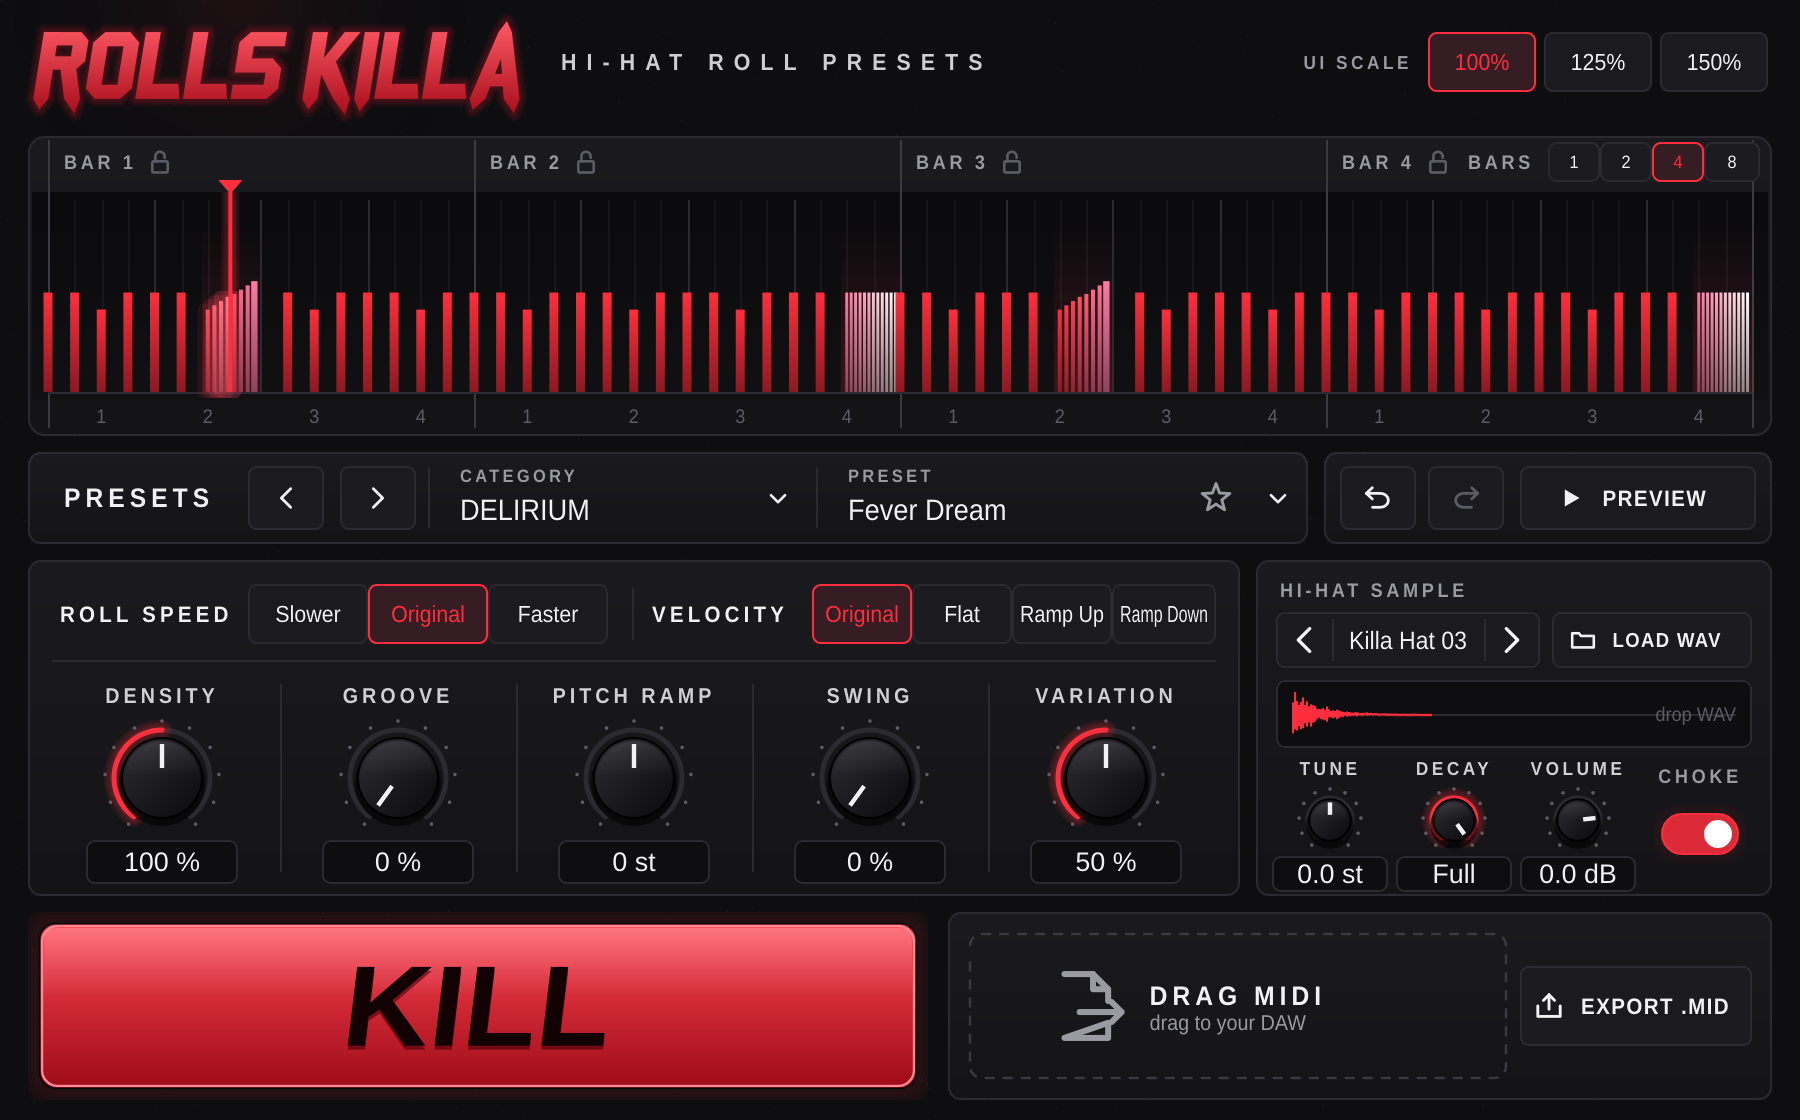
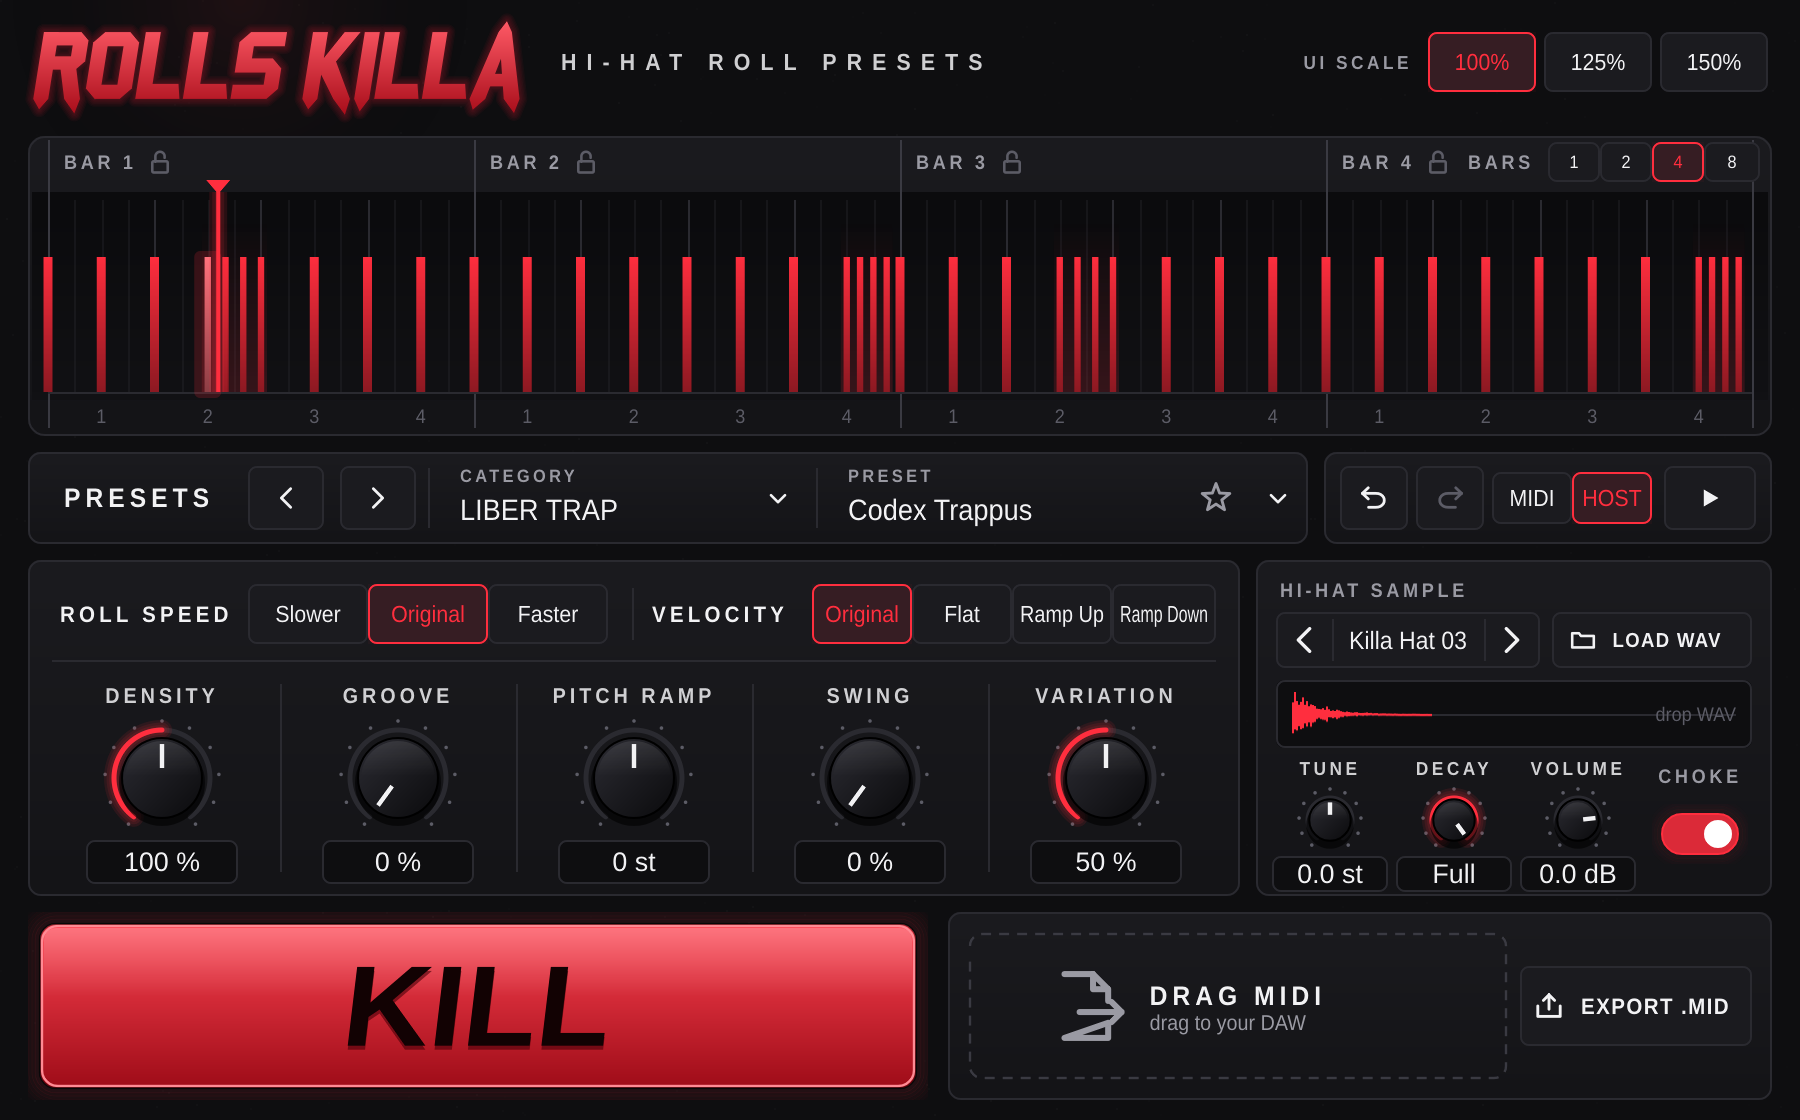
Play mode MIDI/HOST: pattern plays only while a note is held (default)
In FL Studio a muted channel kept playing because the plugin ran from the host
transport alone. New Play Mode parameter:
- MIDI (default): the pattern plays only while a note is held on the channel,
  still locked to the host position (sample-accurate gate, no allocation)
- HOST: previous behaviour, plays whenever the host plays
UI switch next to undo/redo; the visualizer explains the silence when waiting
for a note. In MIDI mode incoming notes are the gate, not hat hits.
Renderer check covers both cases.

Claude-Session: https://claude.ai/code/session_01JN2pH6w3NKbAAYqFduXsoX

diff --git a/Source/PluginProcessor.cpp b/Source/PluginProcessor.cpp
@@ -18,6 +18,7 @@ RollsKillaProcessor::RollsKillaProcessor()
     raw.decay = apvts.getRawParameterValue (params::decay);
     raw.choke = apvts.getRawParameterValue (params::choke);
     raw.volume = apvts.getRawParameterValue (params::volume);
+    raw.playMode = apvts.getRawParameterValue (params::playMode);
 
     rebuildPattern (true);
     history.reset (apvts.copyState());
@@ -376,17 +377,93 @@ void RollsKillaProcessor::processBlock (juce::AudioBuffer<float>& buffer, juce::
         previewPpq += numSamples * transport.bpm / 60.0 / currentSampleRate;
     }
 
-    const auto numEvents = player.process (pattern, transport, numSamples, events);
+    // ---- MIDI gate: in MIDI mode the pattern only plays while a note is held on the channel
+    //      (FL: a long note in the piano roll; a muted channel sends no notes -> silence)
+    const auto midiGate = raw.playMode->load() < 0.5f;
+    const auto previewing = ! hostIsPlaying && transport.playing;
+
+    if (! hostIsPlaying && numHeldNotes > 0)
+    {
+        heldNotes.fill (false);
+        numHeldNotes = 0;
+    }
+
+    auto updateGate = [this] (const juce::MidiMessage& m)
+    {
+        if (m.isNoteOn())
+        {
+            if (! heldNotes[(size_t) m.getNoteNumber()]) { heldNotes[(size_t) m.getNoteNumber()] = true; ++numHeldNotes; }
+        }
+        else if (m.isNoteOff())
+        {
+            if (heldNotes[(size_t) m.getNoteNumber()]) { heldNotes[(size_t) m.getNoteNumber()] = false; --numHeldNotes; }
+        }
+        else if (m.isAllNotesOff() || m.isAllSoundOff())
+        {
+            heldNotes.fill (false);
+            numHeldNotes = 0;
+        }
+    };
+
+    int numEvents = 0;
+
+    if (midiGate && hostIsPlaying)
+    {
+        // run the player in segments split at gate changes (sample accurate, no allocation)
+        const auto beatsPerSample = transport.bpm / 60.0 / currentSampleRate;
+        int segStart = 0;
+
+        auto runSegment = [&] (int segEnd)
+        {
+            segEnd = juce::jlimit (0, numSamples, segEnd);
+            if (segEnd <= segStart)
+                return;
+
+            auto t = transport;
+            t.ppq = transport.ppq + segStart * beatsPerSample;
+            t.playing = numHeldNotes > 0;
+            const auto n = player.process (pattern, t, segEnd - segStart, segmentEvents);
+
+            for (int i = 0; i < n && numEvents < (int) events.size(); ++i)
+            {
+                auto e = segmentEvents[(size_t) i];
+                e.sampleOffset += segStart;
+                events[(size_t) numEvents++] = e;
+            }
+            segStart = segEnd;
+        };
+
+        for (const auto meta : midi)
+        {
+            const auto m = meta.getMessage();
+            if (m.isNoteOnOrOff() || m.isAllNotesOff() || m.isAllSoundOff())
+            {
+                runSegment (meta.samplePosition);
+                updateGate (m);
+            }
+        }
+        runSegment (numSamples);
+    }
+    else
+    {
+        for (const auto meta : midi)
+            updateGate (meta.getMessage());
+        numEvents = player.process (pattern, transport, numSamples, events);
+    }
+
+    waitingForMidi.store (midiGate && hostIsPlaying && numHeldNotes == 0, std::memory_order_relaxed);
     patternSlot.release();
 
-    // ---- live input: incoming note-ons play the sampler too (copied, no allocation)
+    // ---- live input (Host mode only): incoming note-ons play the sampler directly.
+    //      In MIDI mode the notes are the gate, not sounds.
     int numInput = 0;
-    for (const auto meta : midi)
-    {
-        const auto m = meta.getMessage();
-        if (m.isNoteOn() && numInput < (int) inputNotes.size())
-            inputNotes[(size_t) numInput++] = { meta.samplePosition, m.getNoteNumber(), (int) m.getVelocity() };
-    }
+    if (! midiGate || previewing)
+        for (const auto meta : midi)
+        {
+            const auto m = meta.getMessage();
+            if (m.isNoteOn() && numInput < (int) inputNotes.size())
+                inputNotes[(size_t) numInput++] = { meta.samplePosition, m.getNoteNumber(), (int) m.getVelocity() };
+        }
 
     midi.clear();   // output = generated pattern only (keeps the host's preallocated storage)
 

diff --git a/tools/render/RenderMain.cpp b/tools/render/RenderMain.cpp
@@ -62,6 +62,10 @@ int main (int argc, char* argv[])
 
     auto& lib = proc.getLibrary();
 
+    // renders and checks run the pattern from the transport (no notes on the channel)
+    if (auto* pm = proc.getState().getParameter (rk::params::playMode))
+        pm->setValueNotifyingHost (pm->convertTo0to1 (1.0f));
+
     if (args.contains ("--demo"))
     {
         // One listening file: calmest (1) and craziest (8) preset of every category, one loop each.
@@ -315,6 +319,42 @@ int main (int argc, char* argv[])
             expectTrue (samePattern (original, p3.getModel().getPattern()), "undo restores the pattern before KILL");
             p3.redo();
             expectTrue (samePattern (killed, p3.getModel().getPattern()), "redo brings the KILL back");
+        }
+
+        // ---- MIDI play mode: silent without a note, plays while a note is held --
+        {
+            std::unique_ptr<juce::AudioProcessor> gateBase (createPluginFilter());
+            auto& gp = dynamic_cast<RollsKillaProcessor&> (*gateBase);
+            FakePlayHead gph;
+            gph.bpm = 140.0;
+            gp.setPlayHead (&gph);
+            gp.setPlayConfigDetails (0, 2, sr, block);
+            gp.prepareToPlay (sr, block);
+            juce::AudioBuffer<float> buf (2, block);
+
+            auto runBlocks = [&] (int blocks, bool holdNote, int& ons, float& peak)
+            {
+                for (int b = 0; b < blocks; ++b)
+                {
+                    juce::MidiBuffer midi;
+                    if (holdNote && b == 0)
+                        midi.addEvent (juce::MidiMessage::noteOn (1, 60, (juce::uint8) 100), 0);
+                    gp.processBlock (buf, midi);
+                    gph.ppq += block * gph.bpm / 60.0 / sr;
+                    for (const auto m : midi)
+                        ons += m.getMessage().isNoteOn() ? 1 : 0;
+                    peak = std::max (peak, buf.getMagnitude (0, block));
+                }
+            };
+
+            int onsSilent = 0, onsHeld = 0;
+            float peakSilent = 0.0f, peakHeld = 0.0f;
+            runBlocks (200, false, onsSilent, peakSilent);
+            runBlocks (200, true, onsHeld, peakHeld);
+            expectTrue (onsSilent == 0 && peakSilent < 1.0e-6f && gp.isWaitingForMidi() == false,
+                        "MIDI mode: host playing, no note -> silent");
+            expectTrue (onsHeld > 0 && peakHeld > 0.05f, "MIDI mode: note held -> pattern plays");
+            gp.setPlayHead (nullptr);
         }
 
         // ---- performance ------------------------------------------------------

diff --git a/Source/PluginEditor.cpp b/Source/PluginEditor.cpp
@@ -78,6 +78,7 @@ RollsKillaEditor::RollsKillaEditor (RollsKillaProcessor& p)
       proc (p),
       visualizer (p),
       presetBar (p),
+      playMode (p.getState(), params::playMode, { "MIDI", "HOST" }),
       rollSpeed (p.getState(), params::rollSpeed, params::rollSpeedChoices),
       velMode (p.getState(), params::velMode, params::velModeChoices),
       density (p.getState(), params::density, "DENSITY"),
@@ -113,8 +114,10 @@ RollsKillaEditor::RollsKillaEditor (RollsKillaProcessor& p)
     redoButton.setTooltip ("Redo (Ctrl+Shift+Z)");
     undoButton.onClick = [this] { proc.undo(); updateStatus(); };
     redoButton.onClick = [this] { proc.redo(); updateStatus(); };
-    previewButton.label = "PREVIEW";
-    previewButton.setTooltip ("Play the pattern at the preset's tempo while the host is stopped");
+    previewButton.setTooltip ("Preview: play the pattern at the preset's tempo while the host is stopped");
+    content.addAndMakeVisible (playMode);
+    playMode.setTooltip ("MIDI: plays only while a note is held on this channel (FL: one long note in the piano roll; "
+                         "a muted channel stays silent). HOST: plays whenever the host plays.");
     previewButton.onClick = [this] { proc.setPreviewEnabled (! proc.isPreviewEnabled()); updateStatus(); };
 
     for (auto* c : std::initializer_list<juce::Component*> { &rollSpeed, &velMode, &density, &groove, &pitchRamp, &swing, &variation,
@@ -187,10 +190,12 @@ void RollsKillaEditor::layout()
     presetBar.setBounds (kPresetBar);
 
     auto t = kTransport.reduced (8, 7);
-    undoButton.setBounds (t.removeFromLeft (38));
+    undoButton.setBounds (t.removeFromLeft (34));
+    t.removeFromLeft (4);
+    redoButton.setBounds (t.removeFromLeft (34));
+    t.removeFromLeft (4);
+    playMode.setBounds (t.removeFromLeft (80).reduced (0, 3));
     t.removeFromLeft (6);
-    redoButton.setBounds (t.removeFromLeft (38));
-    t.removeFromLeft (8);
     previewButton.setBounds (t);
 
     const auto c = kControls;
@@ -228,7 +233,6 @@ void RollsKillaEditor::updateStatus()
     const auto previewing = proc.isPreviewEnabled() && ! hostPlaying;
     previewButton.setToggleState (previewing, juce::dontSendNotification);
     previewButton.setIcon (previewing ? Icon::stop : Icon::play);
-    previewButton.label = hostPlaying ? "HOST SYNC" : previewing ? "STOP" : "PREVIEW";
     previewButton.setEnabled (! hostPlaying);
     previewButton.repaint();
 

diff --git a/Source/ui/RollVisualizer.cpp b/Source/ui/RollVisualizer.cpp
@@ -62,8 +62,11 @@ void RollVisualizer::timerCallback()
     const auto version = processor.getPatternVersion();
     const auto playhead = processor.getPlayheadBeat();
 
-    if (version != shownVersion || std::abs (playhead - lastPlayhead) > 1.0e-9)
+    const auto waiting = processor.isWaitingForMidi();
+
+    if (version != shownVersion || std::abs (playhead - lastPlayhead) > 1.0e-9 || waiting != lastWaiting)
     {
+        lastWaiting = waiting;
         shownVersion = version;
         lastPlayhead = playhead;
         repaint();
@@ -225,6 +228,22 @@ void RollVisualizer::paint (juce::Graphics& g)
         juce::Path tri;
         tri.addTriangle (x - 6.0f, area.getY() - 10.0f, x + 6.0f, area.getY() - 10.0f, x, area.getY() - 3.0f);
         g.fillPath (tri);
+    }
+
+    // MIDI play mode, host running, no note held: explain the silence
+    if (processor.isWaitingForMidi())
+    {
+        auto box = area.withSizeKeepingCentre (juce::jmin (area.getWidth() - 20.0f, 560.0f), 46.0f);
+        g.setColour (colours::background.withAlpha (0.88f));
+        g.fillRoundedRectangle (box, 6.0f);
+        g.setColour (colours::accent.withAlpha (0.8f));
+        g.drawRoundedRectangle (box, 6.0f, 1.0f);
+        g.setColour (colours::text);
+        g.setFont (labelFont (12.0f));
+        g.drawText ("PLAY: MIDI - WAITING FOR A NOTE ON THIS CHANNEL", box.removeFromTop (26.0f), juce::Justification::centredBottom, false);
+        g.setColour (colours::textDim);
+        g.setFont (uiFont (11.5f, false));
+        g.drawText ("put one long note in the piano roll, or switch PLAY to HOST", box, juce::Justification::centredTop, false);
     }
 
     // hover info

diff --git a/Source/PluginProcessor.h b/Source/PluginProcessor.h
@@ -87,6 +87,8 @@ public:
     void setPreviewEnabled (bool shouldPreview) noexcept;
     bool isPreviewEnabled() const noexcept { return previewEnabled.load(); }
     bool isHostPlaying() const noexcept { return hostPlaying.load(); }
+    /** MIDI play mode, host playing, but no note held on the channel -> silent on purpose. */
+    bool isWaitingForMidi() const noexcept { return waitingForMidi.load(); }
     /** Position inside the pattern in beats, -1 when not running. */
     double getPlayheadBeat() const noexcept { return player.getDisplayBeat(); }
     /** Increments every time a new pattern is published (UI refresh). */
@@ -115,6 +117,10 @@ private:
     std::atomic<bool> previewEnabled { false };
     std::atomic<bool> previewRestart { false };
     std::atomic<bool> hostPlaying { false };
+    std::atomic<bool> waitingForMidi { false };
+    std::array<bool, 128> heldNotes {};
+    int numHeldNotes = 0;
+    std::array<rk::PlayerEvent, rk::PatternPlayer::kMaxEventsPerBlock> segmentEvents {};
     std::atomic<int> patternVersion { 0 };
     std::atomic<bool> stateChanged { false };
     std::atomic<juce::uint32> lastChangeMs { 0 };
@@ -132,6 +138,7 @@ private:
         std::atomic<float>* decay = nullptr;
         std::atomic<float>* choke = nullptr;
         std::atomic<float>* volume = nullptr;
+        std::atomic<float>* playMode = nullptr;
     } raw;
 
     JUCE_DECLARE_NON_COPYABLE_WITH_LEAK_DETECTOR (RollsKillaProcessor)

diff --git a/Source/Parameters.h b/Source/Parameters.h
@@ -21,6 +21,7 @@ inline constexpr const char* tune      = "tune";
 inline constexpr const char* decay     = "decay";
 inline constexpr const char* choke     = "choke";
 inline constexpr const char* volume    = "volume";
+inline constexpr const char* playMode  = "playMode";
 
 inline constexpr int kMaxPresetIndex = 511;
 inline constexpr int kMaxSeed = 99999;
@@ -28,6 +29,9 @@ inline constexpr int kMaxSeed = 99999;
 inline const juce::StringArray rollSpeedChoices { "Slower", "Original", "Faster" };
 inline const juce::StringArray velModeChoices { "Original", "Flat", "Ramp Up", "Ramp Down" };
 inline const juce::StringArray barsChoices { "1", "2", "4", "8" };
+// MIDI = plays only while a note is held on the channel (host-synced); Host = plays whenever the host plays
+inline const juce::StringArray playModeChoices { "MIDI", "Host" };
+inline constexpr int kPlayModeMidi = 0;
 
 inline int barsFromChoice (int choice) { return 1 << juce::jlimit (0, 3, choice); }
 inline int choiceFromBars (int numBars) { return numBars >= 8 ? 3 : numBars >= 4 ? 2 : numBars >= 2 ? 1 : 0; }

diff --git a/Source/Parameters.cpp b/Source/Parameters.cpp
@@ -32,6 +32,7 @@ juce::AudioProcessorValueTreeState::ParameterLayout createLayout (const juce::St
     layout.add (std::make_unique<AudioParameterBool> (ParameterID { choke, 1 }, "Choke", true));
     layout.add (std::make_unique<AudioParameterFloat> (ParameterID { volume, 1 }, "Volume", NormalisableRange<float> (-48.0f, 6.0f, 0.1f, 2.0f), 0.0f,
                                                        AudioParameterFloatAttributes().withStringFromValueFunction ([] (float v, int) { return String (v, 1) + " dB"; })));
+    layout.add (std::make_unique<AudioParameterChoice> (ParameterID { playMode, 1 }, "Play Mode", playModeChoices, kPlayModeMidi));
     return layout;
 }
 

diff --git a/Source/ui/Widgets.h b/Source/ui/Widgets.h
@@ -54,7 +54,7 @@ private:
 
 //==============================================================================
 /** Row of mutually exclusive buttons bound to a choice parameter. */
-class SegmentedChoice : public juce::Component
+class SegmentedChoice : public juce::Component, public juce::SettableTooltipClient
 {
 public:
     SegmentedChoice (juce::AudioProcessorValueTreeState& state, const juce::String& paramId, const juce::StringArray& labels);

diff --git a/Source/PluginEditor.h b/Source/PluginEditor.h
@@ -51,6 +51,7 @@ private:
     rk::ui::IconButton undoButton { "Undo", rk::ui::Icon::undo }, redoButton { "Redo", rk::ui::Icon::redo };
     rk::ui::IconButton previewButton { "Preview", rk::ui::Icon::play };
 
+    rk::ui::SegmentedChoice playMode;
     rk::ui::SegmentedChoice rollSpeed, velMode;
     rk::ui::Knob density, groove, pitchRamp, swing, variation;
 

diff --git a/Source/ui/RollVisualizer.h b/Source/ui/RollVisualizer.h
@@ -43,6 +43,7 @@ private:
 
     int shownVersion = -1;
     double lastPlayhead = -1.0;
+    bool lastWaiting = false;
     int hoverNote = -1, hoverLock = -1;
 
     // drag state

diff --git a/README.md b/README.md
@@ -68,7 +68,8 @@ zástupné closed hats (stejná jména, podobná délka a jas). Vlastní WAV lze
 | **KILL** | nová variace presetu v pravidlech kategorie; pravý klik = zpět na originál presetu |
 | **DRAG MIDI** | chyť a přetáhni do DAW (FL: do Playlistu nebo Piano rollu) |
 | **EXPORT .MID** | uloží pattern jako MIDI soubor |
-| **PREVIEW** | přehrávání v BPM presetu, když DAW stojí |
+| **PLAY: MIDI / HOST** | **MIDI** (výchozí): hraje jen když na kanálu drží nota – ve FL dej do Piano rollu kanálu Rolls Killa jednu dlouhou notu přes celý pattern; ztlumený kanál je potichu. **HOST**: hraje vždy, když běží Play v DAW |
+| **▶ (Preview)** | přehrávání v BPM presetu, když DAW stojí |
 | **Undo/Redo** | posledních 20 změn (Ctrl+Z, Ctrl+Shift+Z) |
 
 Všechno (preset, knoby, KILL seed, zámky, úpravy v okénku, sampler) se ukládá do projektu DAW.
